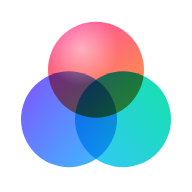
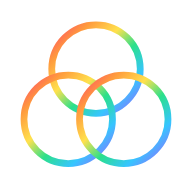
アイコンを線リング＋レインボーに／起動時に使い方を自動表示
- アプリアイコン：塗り→3つの円の「線（リング）」＋レインボーグラデ（白背景）。
  favicon.svg と 192/512/180 PNG を再生成。
- 起動するたびに使い方（5つの力オンボーディング）を最初に表示。
  「次回から起動時に自動表示しない」チェックで抑止可。データタブの?から再表示。
- オンボーディングの解放説明の鍵絵文字をlucideアイコンに置換。

diff --git a/src/components/OnboardingModal.tsx b/src/components/OnboardingModal.tsx
@@ -1,16 +1,24 @@
-import { useEffect, useRef } from 'react'
+import { useEffect, useRef, useState } from 'react'
 import {
-  X, TrendingUp, Search, Sparkles, Rocket, AlertTriangle, ArrowRight, RefreshCw,
+  X, TrendingUp, Search, Sparkles, Rocket, AlertTriangle, ArrowRight, RefreshCw, LockOpen,
 } from 'lucide-react'
 import type { LucideIcon } from 'lucide-react'
 
 const ONBOARD_KEY = 'bekkai-onboarded'
+const SKIP_KEY = 'bekkai-onboarding-skip'
 
 export function isOnboarded(): boolean {
   try { return localStorage.getItem(ONBOARD_KEY) === '1' } catch { return true }
 }
 export function markOnboarded() {
   try { localStorage.setItem(ONBOARD_KEY, '1') } catch { /* noop */ }
+}
+/** 起動時に使い方を自動表示しない設定か（既定: 表示する） */
+export function isOnboardingSkipped(): boolean {
+  try { return localStorage.getItem(SKIP_KEY) === '1' } catch { return false }
+}
+function setOnboardingSkip(skip: boolean) {
+  try { skip ? localStorage.setItem(SKIP_KEY, '1') : localStorage.removeItem(SKIP_KEY) } catch { /* noop */ }
 }
 
 interface Power {
@@ -37,13 +45,15 @@ interface OnboardingModalProps {
 
 export function OnboardingModal({ open, onClose }: OnboardingModalProps) {
   const overlayRef = useRef<HTMLDivElement>(null)
+  const [dontShow, setDontShow] = useState(isOnboardingSkipped())
   useEffect(() => {
     document.body.style.overflow = open ? 'hidden' : ''
+    if (open) setDontShow(isOnboardingSkipped())
     return () => { document.body.style.overflow = '' }
   }, [open])
   if (!open) return null
 
-  const close = () => { markOnboarded(); onClose() }
+  const close = () => { markOnboarded(); setOnboardingSkip(dontShow); onClose() }
 
   const Card = ({ p, badge }: { p: Power; badge?: string }) => {
     const Icon = p.icon
@@ -109,20 +119,25 @@ export function OnboardingModal({ open, onClose }: OnboardingModalProps) {
 
           {/* 段階的開示の説明 */}
           <div className="mt-4 flex gap-2.5 p-3 rounded-xl bg-surface-secondary">
-            <span className="text-[15px]">🔓</span>
+            <LockOpen size={16} className="text-primary shrink-0 mt-0.5" />
             <div>
               <p className="text-[12px] font-semibold text-text-primary">少しずつ解放されます</p>
               <p className="text-[11px] text-text-secondary leading-relaxed mt-0.5">
-                最初は<b>「まずここだけ」</b>の項目だけ開いています。埋めると次の項目が🔓解放。
+                最初は<b>「まずここだけ」</b>の項目だけ開いています。埋めると次の項目が解放。
                 一度に全部やらなくて大丈夫。1つずつでOKです。
               </p>
             </div>
           </div>
 
-          <button onClick={close} className="w-full py-3 rounded-[10px] text-white text-sm font-semibold mt-4 bg-primary">
+          <label className="flex items-center gap-2 mt-4 cursor-pointer select-none">
+            <input type="checkbox" checked={dontShow} onChange={(e) => setDontShow(e.target.checked)}
+              className="w-4 h-4 accent-[color:var(--color-primary)]" />
+            <span className="text-[12px] text-text-secondary">次回から起動時に自動表示しない</span>
+          </label>
+          <button onClick={close} className="w-full py-3 rounded-[10px] text-white text-sm font-semibold mt-3 bg-primary">
             はじめる
           </button>
-          <p className="text-[10px] text-text-tertiary text-center mt-2">この画面は「データ」タブからいつでも開けます</p>
+          <p className="text-[10px] text-text-tertiary text-center mt-2">この画面は「データ」タブの「?」からいつでも開けます</p>
         </div>
       </div>
     </div>

diff --git a/src/App.tsx b/src/App.tsx
@@ -24,7 +24,7 @@ import { HomeScreen } from '@/components/HomeScreen'
 import { AboutScreen } from '@/components/AboutScreen'
 import { FeatureGuide, isGuideHidden } from '@/components/FeatureGuide'
 import type { GuideFeature } from '@/components/FeatureGuide'
-import { OnboardingModal, isOnboarded } from '@/components/OnboardingModal'
+import { OnboardingModal, isOnboarded, isOnboardingSkipped } from '@/components/OnboardingModal'
 import { Toaster } from '@/components/Toaster'
 import { QuickCapture } from '@/components/QuickCapture'
 import { Celebration } from '@/components/Celebration'
@@ -60,7 +60,8 @@ function App() {
     !isOnboarded() && !NON_GUIDE.includes(tab) && isFeatureEmpty(tab) && !isGuideHidden(tab as GuideFeature) && !shownThisSession.current.has(tab)
 
   const [activeTab, setActiveTab] = useState<AppTab>('home')
-  const [onboardingOpen, setOnboardingOpen] = useState(() => !isOnboarded())
+  // 起動するたびに使い方を最初に表示（「次回から表示しない」を選ぶと抑止）
+  const [onboardingOpen, setOnboardingOpen] = useState(() => !isOnboardingSkipped())
   const [guideOpen, setGuideOpen] = useState(false)
 
   const handleTabChange = (tab: AppTab) => {
